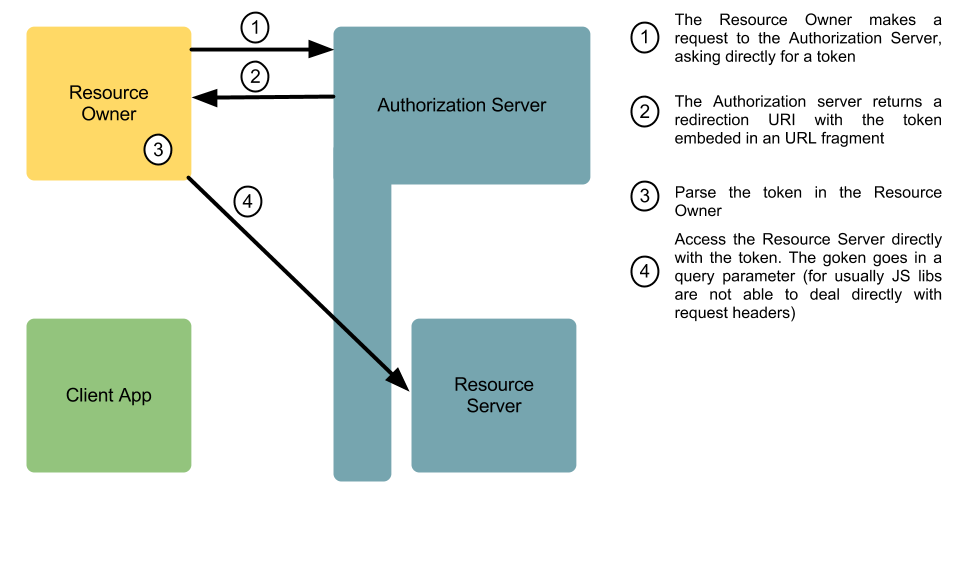
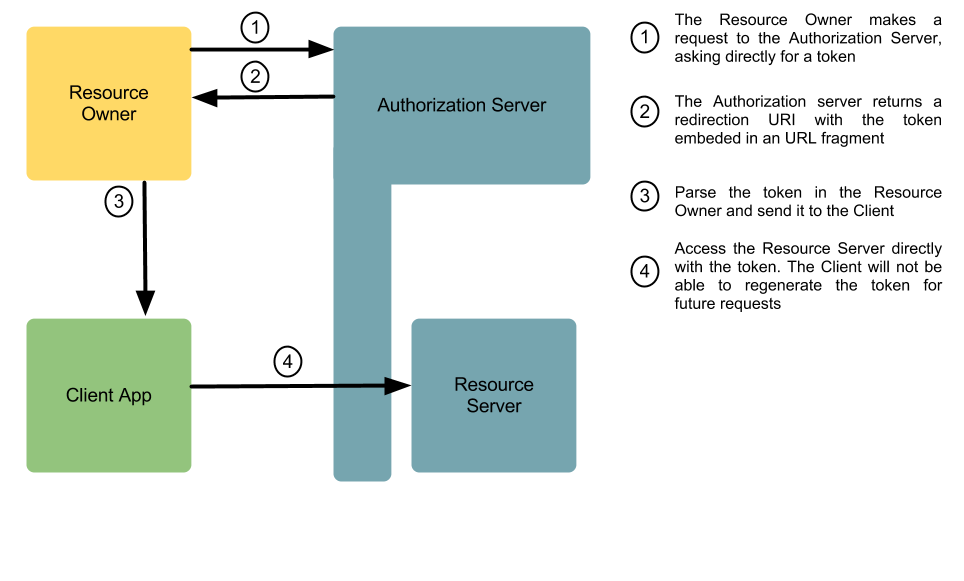
Implement implicit grant

diff --git a/test/implicitGrantTest.js b/test/implicitGrantTest.js
@@ -1,9 +1,126 @@
 "use strict";
 
+var apps = require("../app"),
+    mockResource = require("./resourceMock"),
+    proxies = require("../" + process.env.LIB_ROOT + "/proxyService"),
+    request = require("request"),
+    clients = require("../" + process.env.LIB_ROOT + "/clientService"),
+    grants = require("../" + process.env.LIB_ROOT + "/grantService"),
+    tokens = require("../" + process.env.LIB_ROOT + "/tokenService"),
+    routeUtils = require("../routes/routeUtils"),
+    config = require("../config"),
+    should = require('should'),
+    async = require("async"),
+    REDIRECT_URI = "http://redirecturi.com",
+    SCOPE = "/secure",
+    CLIENT_ID,
+    CLIENT_SECRET,
+    RESOURCE_OWNER = "TestResourceOwner",
+    RESOURCE_OWNER_PASS = "ResourcePassword",
+    code,
+    server,
+    authorization,
+    mockRes,
+    proxy;
+
 describe("Implicit Grant", function () {
+    var optionsAuthorize,
+        optionsAccess;
+
+    beforeEach(function (done) {
+        async.series([
+            mockResource.createMockApp,
+            apps.create,
+            async.apply(clients.create, REDIRECT_URI, "testApp", "confidential")
+        ], function (err, results) {
+            config.tokens.expireTime = (24 * 60 * 60 * 1000);
+            mockRes = results[0];
+            proxy = results[1][1];
+            server = results[1][0];
+            CLIENT_ID = results[2].id;
+            CLIENT_SECRET = results[2].secret;
+            authorization = 'Basic ' + new Buffer(RESOURCE_OWNER + ':' + RESOURCE_OWNER_PASS).toString('base64');
+
+            optionsAuthorize = {
+                url: 'https://localhost:' + config.endpoint.port + '/grant',
+                method: 'POST',
+                json: {
+                    client_id: CLIENT_ID,
+                    scope: SCOPE,
+                    response_type: "token",
+                    resource_owner: RESOURCE_OWNER
+                },
+                followRedirect: false,
+                headers: {
+                    Authorization: authorization
+                }
+            };
+
+            optionsAccess = {
+                url: 'https://localhost:' + config.resource.proxy.port + "/api/" + RESOURCE_OWNER + "/secure",
+                method: 'GET',
+                headers: {
+                }
+            };
+
+            done();
+        });
+    });
+
+    afterEach(function (done) {
+        async.series([
+            async.apply(apps.close, server, proxy),
+            async.apply(mockResource.close, mockRes)
+        ], function (err, results) {
+            if (err) {
+                console.error("There was an error cleaning testing state");
+            }
+
+            done();
+        });
+    });
+
     describe("When a implicit grant request arrives", function () {
-        it("should authenticate the resource owner");
-        it("should return an access token in the fragment");
-        it("should preserve the state from the original request in the redirection");
+        it("should authenticate the resource owner", function (done) {
+            delete optionsAuthorize.headers.Authorization;
+
+            request(optionsAuthorize, function (err, response, body) {
+                response.statusCode.should.equal(401);
+                done();
+            });
+        });
+
+        it("should return an access token in the fragment", function (done) {
+            request(optionsAuthorize, function (err, response, body) {
+                response.statusCode.should.equal(302);
+                
+                var fragment = response.headers.location.match(/.*#(.*)/);
+                should.exist(fragment[1]);
+
+                var params = routeUtils.parse(fragment[1]);
+                should.exist(params.access_token);
+                params.access_token.should.match(/[0-9A-Fa-f\-]{36}/);
+
+                done();
+            });
+        });
+
+        it("should preserve the state from the original request in the redirection", function (done) {
+            optionsAuthorize.json.state = "InternalState";
+
+            request(optionsAuthorize, function (err, response, body) {
+                var fragment = response.headers.location.match(/.*#(.*)/);
+                should.exist(fragment[1]);
+
+                var params = routeUtils.parse(fragment[1]);
+
+                params.state.should.equal("InternalState");
+                done();
+            });
+        });
+    });
+    describe("When a resource owner tries to access a resource", function () {
+        it("should allow to access that resource owner's resources");
+        it("should forbid access to other resource owner's resources");
     });
 });

diff --git a/lib/grantService.js b/lib/grantService.js
@@ -3,6 +3,7 @@
 var
     clients = require("./clientService"),
     uuid = require("node-uuid"),
+    tokens = require("./tokenService"),
     async = require("async"),
     grantList = [];
 
@@ -93,11 +94,49 @@ function generateCode() {
     return uuid.v4();
 }
 
+function processCodeGrant(clientObject, grant, callback) {
+    var accessCode = generateCode();
+
+    grant.code = accessCode;
+
+    var result = {
+        client_id: grant.client_id,
+        code: accessCode,
+        redirectUri: clientObject.redirectUri
+    };
+    grantList.push(grant);
+    callback(null, result);
+}
+
+function processPasswordGrant(clientObject, grant, callback) {
+    var result = {
+        client_id: grant.client_id,
+        redirectUri: clientObject.redirectUri
+    };
+    grantList.push(grant);
+    callback(null, result);
+}
+
+function processTokenGrant(clientObject, grant, callback) {
+    grantList.push(grant);
+
+    tokens.getImplicitToken(grant.client_id, grant.resource_owner, grant.scope, function (error, token) {
+        if (error) {
+            var error = {
+                code: 401,
+                message: "Error issuing token"
+            };
+        } else {
+            callback(null, token);
+        }
+    });
+}
+
 function addGrant(clientId, scope, type, resourceOwner, callback) {
     clients.find(clientId, function (err, clientObject) {
         if (err || !clientObject) {
             callback(err);
-        } else if (!type || (type != "code" && type != "password") ) {
+        } else if (!type || (type != "code" && type != "password" && type != "token") ) {
             var error = {
                 code: 401,
                 message: "Unexpected grant type"
@@ -111,28 +150,15 @@ function addGrant(clientId, scope, type, resourceOwner, callback) {
                     type: type,
                     resource_owner: resourceOwner,
                     creationTime: new Date().getTime()
-                },
-                result;
+                };
 
             if (type == "code") {
-                var accessCode = generateCode();
-
-                grant.code = accessCode;
-
-                result = {
-                    client_id: clientId,
-                    code: accessCode,
-                    redirectUri: clientObject.redirectUri
-                };
+                processCodeGrant(clientObject, grant, callback);
             } else if (type == "password") {
-                result = {
-                    client_id: clientId,
-                    redirectUri: clientObject.redirectUri
-                };
+                processPasswordGrant(clientObject, grant, callback);
+            } else if (type == "token") {
+                processTokenGrant(clientObject, grant, callback);
             }
-
-            grantList.push(grant);
-            callback(null, result);
         }
     });
 }

diff --git a/lib/tokenService.js b/lib/tokenService.js
@@ -209,31 +209,28 @@ function getClientCredentialsToken(clientId, callback) {
     );
 }
 
-/**
- * Implements the Resource Owner Password Credentials grant. This grant consists on two actions: 1) creating a new grant
- * allowing the client to access the resources of the RO with a certain scope; and 2) returning the newly generated token.
- */
 function getResourceOwnerPasswordToken(clientId, resourceOwner, scope, callback) {
-    async.series([
-        async.apply(grants.add, clientId, scope, "password", resourceOwner),
-        async.apply(tokenRetrieval,
+    tokenRetrieval(
             async.apply(grants.findGrantWithScopeAndResourceOwner, clientId, scope, resourceOwner),
             clientId,
             "type",
-            "password"
-        )
-    ], function (error, results) {
-        if (error) {
-            callback(error);
-        } else {
-            callback(null, results[1]);
-        }
-    });
+            "password",
+            callback);
+}
+
+function getImplicitToken(clientId, resourceOwner, scope, callback) {
+    tokenRetrieval(
+        async.apply(grants.findGrantWithScopeAndResourceOwner, clientId, scope, resourceOwner),
+        clientId,
+        "type",
+        "token",
+        callback);
 }
 
 exports.remove = remove;
 exports.getCcToken = getClientCredentialsToken;
 exports.getRoToken = getResourceOwnerPasswordToken;
+exports.getImplicitToken = getImplicitToken;
 exports.refresh = getRefreshedToken;
 exports.get = getToken;
 exports.find = findToken;

diff --git a/routes/routeUtils.js b/routes/routeUtils.js
@@ -23,15 +23,22 @@ function checkBody(param, message, req) {
     return checkParameter(param, message, req.body);
 }
 
-function encodeQueryString(data) {
-    var
-        query = "?";
+function encodeQueryString(querySymbol, data) {
+    var query = querySymbol;
 
     for (var i in data) {
         query+= i + "=" + data[i] + "&";
     }
 
     return query;
+}
+
+function parseQueryString(data) {
+    return data.split("&").reduce(function(obj, item) {
+        var attrs = item.split("=");
+        obj[attrs[0]] = attrs[1];
+        return obj;
+        }, {});
 }
 
 function render(req, res, index, type, err, results) {
@@ -48,7 +55,11 @@ function render(req, res, index, type, err, results) {
                 results[index].state = req.body.state;
             }
 
-            res.redirect(302, uri + encodeQueryString(results[index]));
+            if (req.body && req.body.response_type == "token") {
+                res.redirect(302, uri + encodeQueryString("#", results[index]));
+            } else {
+                res.redirect(302, uri + encodeQueryString("?", results[index]));
+            }
         } else if (type == "ok") {
             res.json(200, results[index]);
         } else {
@@ -69,3 +80,4 @@ exports.checkBody = checkBody;
 exports.checkQuery = checkQuery;
 exports.render = render;
 exports.extract = extractCredentials;
+exports.parse = parseQueryString;

diff --git a/routes/tokenManagement.js b/routes/tokenManagement.js
@@ -3,6 +3,7 @@
 var
     async = require("async"),
     tokens = require("../lib/tokenService"),
+    grants = require("../lib/grantService"),
     grantMgmt = require("./grantManagement"),
     utils = require("./routeUtils"),
     series = async.series,
@@ -43,7 +44,11 @@ function selectTokenFunction(clientid, clientSecret, scope, code, refresh, type,
         callback(apply(tokens.getCcToken, clientid));
     } else if (type == "password") {
         var authString = 'Basic ' + new Buffer(resourceOwner + ':' + resourceOwnerPassword).toString('base64');
-        grantMgmt.authenticate(authString, function (error) {
+
+        async.series([
+            async.apply(grantMgmt.authenticate, authString),
+            async.apply(grants.add, clientid, scope, "password", resourceOwner)
+        ], function (error, results) {
             if (error) {
                 callback(createUnauthenticatedFunction());
             } else {

diff --git a/test/resourceOwnerCredentialsTest.js b/test/resourceOwnerCredentialsTest.js
@@ -80,7 +80,6 @@ describe("Resource Owner Credentials Grant", function () {
         });
     });
 
-
     describe("When a acess token request arrives", function () {
         it("should reject unauthenticated clients", function (done) {
             optionsAuthorize.headers = null;
